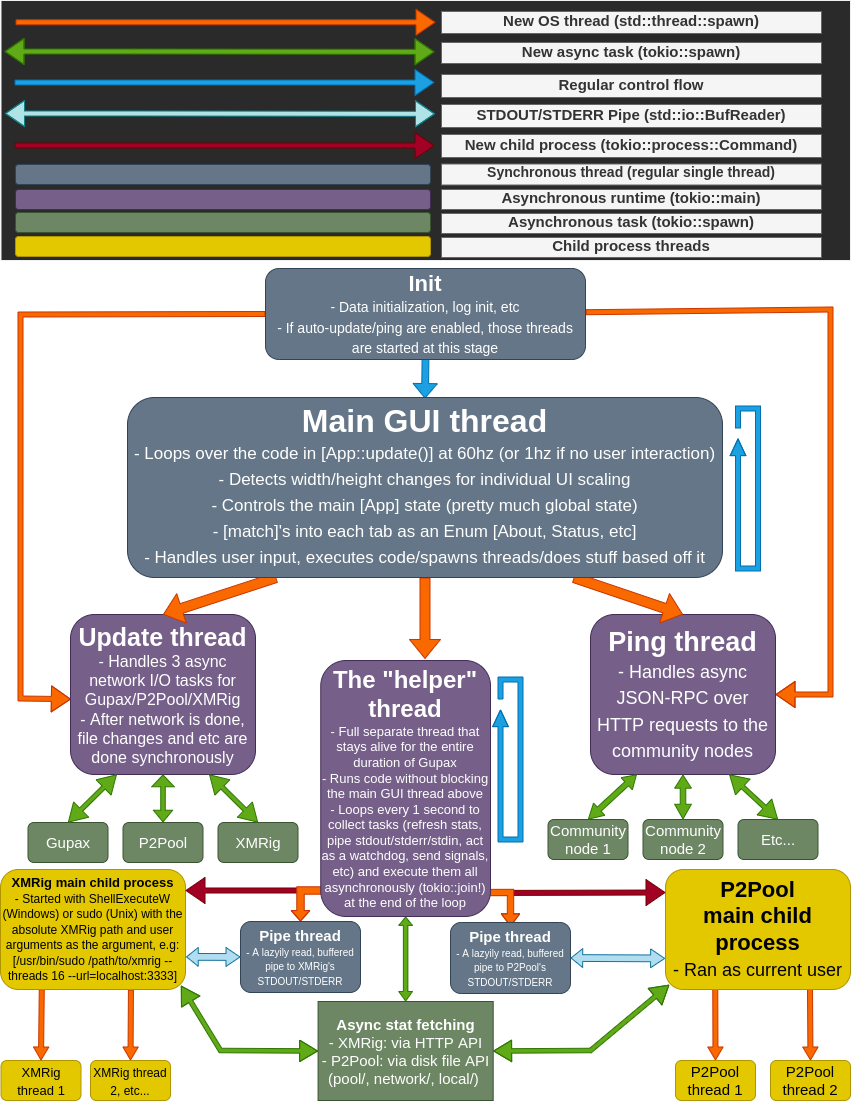
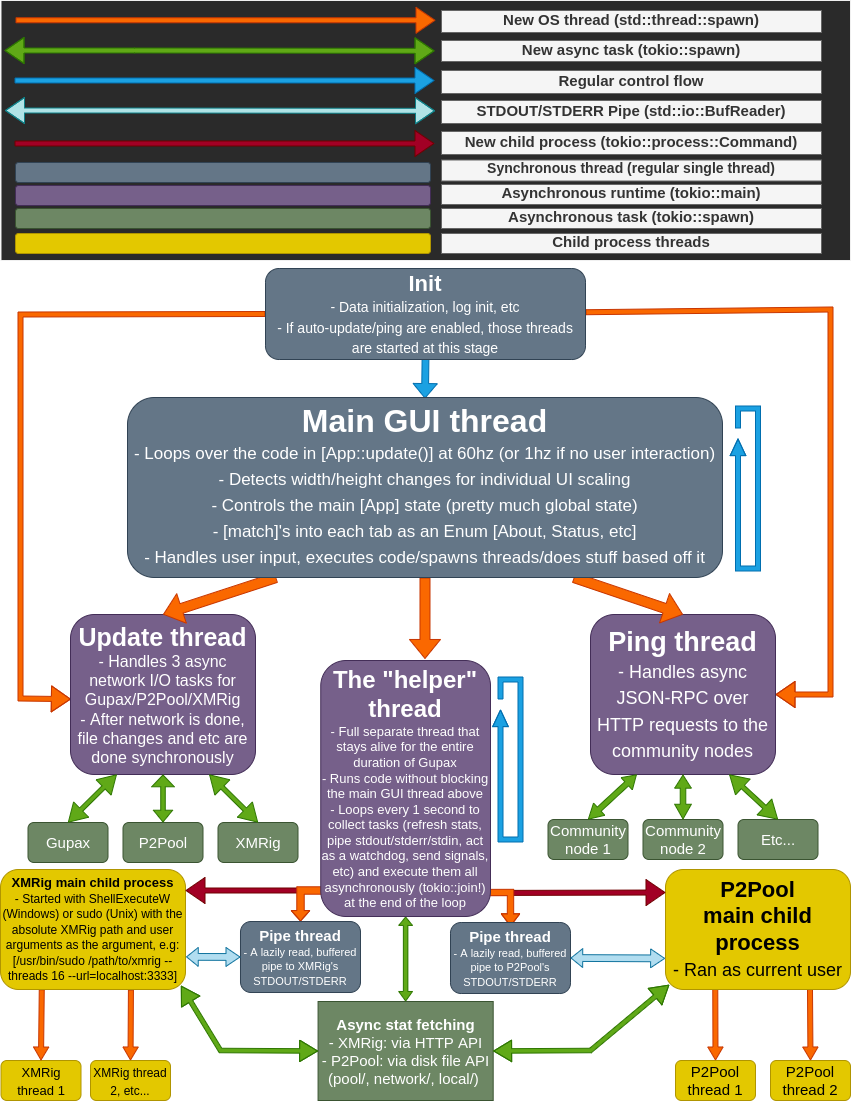
helper: add stdout/stderr pipe threads to model

Changed region(s): [[0.0, 0.0, 0.9777, 0.247], [0.5499, 0.8647, 0.6722, 0.8955], [0.3055, 0.8647, 0.4277, 0.8955]]

diff --git a/src/helper.rs b/src/helper.rs
@@ -15,9 +15,24 @@
 // You should have received a copy of the GNU General Public License
 // along with this program.  If not, see <https://www.gnu.org/licenses/>.
 
-// This file handles all things related to child processes (P2Pool/XMRig).
-// The main GUI thread will interface with the [Arc<Mutex<...>>] data found
-// here, e.g: User clicks [Start P2Pool] -> Init p2pool thread here.
+// This file represents the "helper" thread, which is the full separate thread
+// that runs alongside the main [App] GUI thread. It exists for the entire duration
+// of Gupax so that things can be handled without locking up the GUI thread.
+//
+// This thread is a continual 1 second loop, collecting available jobs on the
+// way down and (if possible) asynchronously executing them at the very end.
+//
+// The main GUI thread will interface with this thread by mutating the Arc<Mutex>'s
+// found here, e.g: User clicks [Start P2Pool] -> Arc<Mutex<ProcessSignal> is set
+// indicating to this thread during its loop: "I should start P2Pool!", e.g:
+//
+//     match p2pool.lock().unwrap().signal {
+//         ProcessSignal::Start => start_p2pool(),
+//         ...
+//     }
+//
+// This also includes all things related to handling the child processes (P2Pool/XMRig):
+// piping their stdout/stderr/stdin, accessing their APIs (HTTP + disk files), etc.
 
 //---------------------------------------------------------------------------------------------------- Import
 use std::{
@@ -31,14 +46,11 @@ use log::*;
 
 //---------------------------------------------------------------------------------------------------- [Process] Struct
 // This holds all the state of a (child) process.
-// The actual process thread runs in a 1 second loop, reading/writing to this struct.
 // The main GUI thread will use this to display console text, online state, etc.
 pub struct Process {
 	name: ProcessName,     // P2Pool or XMRig?
-	online: bool,          // Is the process alive?
-	args: String,          // A single [String] containing the arguments
-	path: PathBuf,         // The absolute path to the process binary
-	signal: ProcessSignal, // Did the user click [Stop/Restart]?
+	state: ProcessState,   // The state of the process (alive, dead, etc)
+	signal: ProcessSignal, // Did the user click [Start/Stop/Restart]?
 	output: String,        // This is the process's stdout + stderr
 	// STDIN Problem:
 	//     - User can input many many commands in 1 second
@@ -58,9 +70,7 @@ impl Process {
 	pub fn new(name: ProcessName, args: String, path: PathBuf) -> Self {
 		Self {
 			name,
-			online: false,
-			args,
-			path,
+			state: ProcessState::Dead,
 			signal: ProcessSignal::None,
 			// P2Pool log level 1 produces a bit less than 100,000 lines a day.
 			// Assuming each line averages 80 UTF-8 scalars (80 bytes), then this
@@ -74,57 +84,51 @@ impl Process {
 	pub fn parse_args(args: &str) -> Vec<String> {
 		args.split_whitespace().map(|s| s.to_owned()).collect()
 	}
-
-	pub fn spawn(process: &Arc<Mutex<Self>>, name: ProcessName) {
-		// Setup
-		let process = Arc::clone(process);
-		let args = Self::parse_args(&process.lock().unwrap().args);
-		info!("{} | Spawning initial thread", name);
-		info!("{} | Arguments: {:?}", name, args);
-
-		// Spawn thread
-		thread::spawn(move || {
-			// Create & spawn child
-			let mut child = Command::new(&process.lock().unwrap().path)
-				.args(args)
-				.stdout(std::process::Stdio::piped())
-				.spawn().unwrap();
-
-			// 1-second loop, reading and writing data to relevent struct
-			loop {
-				let process = process.lock().unwrap(); // Get lock
-				// If user sent a signal, handle it
-				match process.signal {
-					ProcessSignal::None => {},
-					_ => { child.kill(); break; },
-				};
-//				println!("{:?}", String::from_utf8(child.wait_with_output().unwrap().stdout).unwrap());
-				thread::sleep(SECOND);
-			}
-
-			// End of thread, must mean process is offline
-			process.lock().unwrap().online = false;
-		});
-	}
 }
 
-//---------------------------------------------------------------------------------------------------- [ProcessSignal] Enum
+//---------------------------------------------------------------------------------------------------- [Process*] Enum
+#[derive(Copy,Clone,Eq,PartialEq,Debug)]
+pub enum ProcessState {
+	Alive,    // Process is online, GREEN!
+	Dead,     // Process is dead, BLACK!
+	Failed,   // Process is dead AND exited with a bad code, RED!
+	// Process is starting up, YELLOW!
+	// Really, processes start instantly, this just accounts for the delay
+	// between the main thread and this threads 1 second event loop.
+	Starting,
+}
+
 #[derive(Copy,Clone,Eq,PartialEq,Debug)]
 pub enum ProcessSignal {
 	None,
+	Start,
 	Stop,
 	Restart,
 }
 
-//---------------------------------------------------------------------------------------------------- [ProcessName] Enum
 #[derive(Copy,Clone,Eq,PartialEq,Debug)]
 pub enum ProcessName {
 	P2Pool,
 	XMRig,
 }
 
-impl std::fmt::Display for ProcessName {
-	fn fmt(&self, f: &mut std::fmt::Formatter) -> std::fmt::Result {
-		write!(f, "{:#?}", self)
-	}
+impl std::fmt::Display for ProcessState  { fn fmt(&self, f: &mut std::fmt::Formatter) -> std::fmt::Result { write!(f, "{:#?}", self) } }
+impl std::fmt::Display for ProcessSignal { fn fmt(&self, f: &mut std::fmt::Formatter) -> std::fmt::Result { write!(f, "{:#?}", self) } }
+impl std::fmt::Display for ProcessName   { fn fmt(&self, f: &mut std::fmt::Formatter) -> std::fmt::Result { write!(f, "{:#?}", self) } }
+
+//---------------------------------------------------------------------------------------------------- The "helper" loop
+#[tokio::main]
+pub async fn helper() {
+	thread::spawn(|| { loop {
+	// 1. Check process signals, match, do action (start, kill, read)
+	// 2. Spawn P2Pool API task
+	// 3. Spawn XMRig HTTP API task
+	// 4. 
+	// 5.
+	// 6.
+	// 7.
+	// 8.
+	// 9.
+	// 10.
+	}});
 }

diff --git a/src/main.rs b/src/main.rs
@@ -60,7 +60,7 @@ mod gupax;
 mod p2pool;
 mod xmrig;
 mod update;
-mod process;
+mod helper;
 use {ferris::*,constants::*,node::*,disk::*,status::*,update::*,gupax::*};
 
 //---------------------------------------------------------------------------------------------------- Struct + Impl
@@ -93,16 +93,18 @@ pub struct App {
 	// If Gupax updated itself, this represents that the
 	// user should (but isn't required to) restart Gupax.
 	restart: Arc<Mutex<Restart>>,
-	// Error State
+	// Error State:
 	// These values are essentially global variables that
 	// indicate if an error message needs to be displayed
 	// (it takes up the whole screen with [error_msg] and buttons for ok/quit/etc)
 	error_state: ErrorState,
-	// Process/update state:
-	// Doesn't make sense to save this on disk
-	// so it's represented as a bool here.
-	p2pool: bool, // Is p2pool online?
-	xmrig: bool, // Is xmrig online?
+	// Process State:
+	// This holds everything related to the
+	// child processes when starting P2Pool/XMRig.
+	p2pool: bool,
+	xmrig: bool,
+//	p2pool: Arc<Mutex<Process>>,
+//	xmrig: Arc<Mutex<Process>>,
 	// State from [--flags]
 	no_startup: bool,
 	// Static stuff
@@ -153,6 +155,8 @@ impl App {
 			error_state: ErrorState::new(),
 			p2pool: false,
 			xmrig: false,
+//			p2pool: Arc::new(Mutex::new(Process::new())),
+//			xmrig: Arc::new(Mutex::new(Process::new())),
 			no_startup: false,
 			now: Instant::now(),
 			exe: String::new(),

diff --git a/src/p2pool.rs b/src/p2pool.rs
@@ -20,7 +20,7 @@ use crate::{
 	constants::*,
 	disk::*,
 	node::*,
-	process::*,
+	helper::*,
 };
 use egui::{
 	TextEdit,SelectableLabel,ComboBox,Label,Button,

diff --git a/src/README.md b/src/README.md
@@ -1,7 +1,7 @@
-# Gupax source files
+# Gupax source
 * [Structure](#Structure)
-* [Bootstrap](#Bootstrap)
 * [Thread Model](#Thread-Model)
+* [Bootstrap](#Bootstrap)
 * [Disk](#Disk)
 * [Scale](#Scale)
 * [Naming Scheme](#naming-scheme)
@@ -10,16 +10,19 @@
 | File/Folder  | Purpose |
 |--------------|---------|
 | constants.rs | General constants needed in Gupax
-| disk.rs      | Code for writing to disk: `state.toml/node.toml/pool.toml`; This holds the structs for the [State]
+| disk.rs      | Code for writing to disk: `state.toml/node.toml/pool.toml`; This holds the structs for the [State] struct
 | ferris.rs    | Cute crab bytes
 | gupax.rs     | `Gupax` tab
-| main.rs      | `App/Tab/State` + misc data/functions
+| helper.rs   | The "helper" thread that runs for the entire duration Gupax is alive. All the processing that needs to be done without blocking the main GUI thread runs here, including everything related to handling P2Pool/XMRig
+| main.rs      | The main `App` struct that holds all data + misc data/functions
 | node.rs      | Community node ping code for the `P2Pool` simple tab
-| process.rs   | Code for executing/handling P2Pool/XMRig
 | p2pool.rs    | `P2Pool` tab
 | status.rs    | `Status` tab
 | update.rs    | Update code for the `Gupax` tab
 | xmrig.rs     | `XMRig` tab
+
+## Thread Model
+![thread_model.png](https://github.com/hinto-janaiyo/gupax/blob/main/images/thread_model.png)
 
 ## Bootstrap
 This is how Gupax works internally when starting up:
@@ -27,10 +30,9 @@ This is how Gupax works internally when starting up:
 1. **INIT**
 	- Initialize custom console logging with `log`, `env_logger`
 	- Initialize misc data (structs, text styles, thread count, images, etc)
-	- Check for admin privilege (for XMRig)
 	- Start initializing main `App` struct
 	- Parse command arguments
-	- Attempt to read disk files `state.toml`, `node.toml`
+	- Attempt to read disk files
 	- If errors were found, pop-up window
 	
 2. **AUTO**
@@ -43,9 +45,6 @@ This is how Gupax works internally when starting up:
 	- Do `App` stuff
 	- If `ask_before_quit` == `true`, ask before quitting
 	- Kill processes, kill connections, exit
-
-## Thread Model
-![thread_model.png](https://github.com/hinto-janaiyo/gupax/blob/main/images/thread_model.png)
 
 ## Disk
 Long-term state is saved onto the disk in the "OS data folder", using the [TOML](https://github.com/toml-lang/toml) format. If not found, default files will be created. Given a slightly corrupted state file, Gupax will attempt to merge it with a new default one. This will most likely happen if the internal data structure of `state.toml` is changed in the future (e.g removing an outdated setting). Merging silently in the background is a good non-interactive way to handle this. The node/pool database cannot be merged, and if given a corrupted file, Gupax will show an un-recoverable error screen. If Gupax can't read/write to disk at all, or if there are any other big issues, it will show an un-recoverable error screen.
